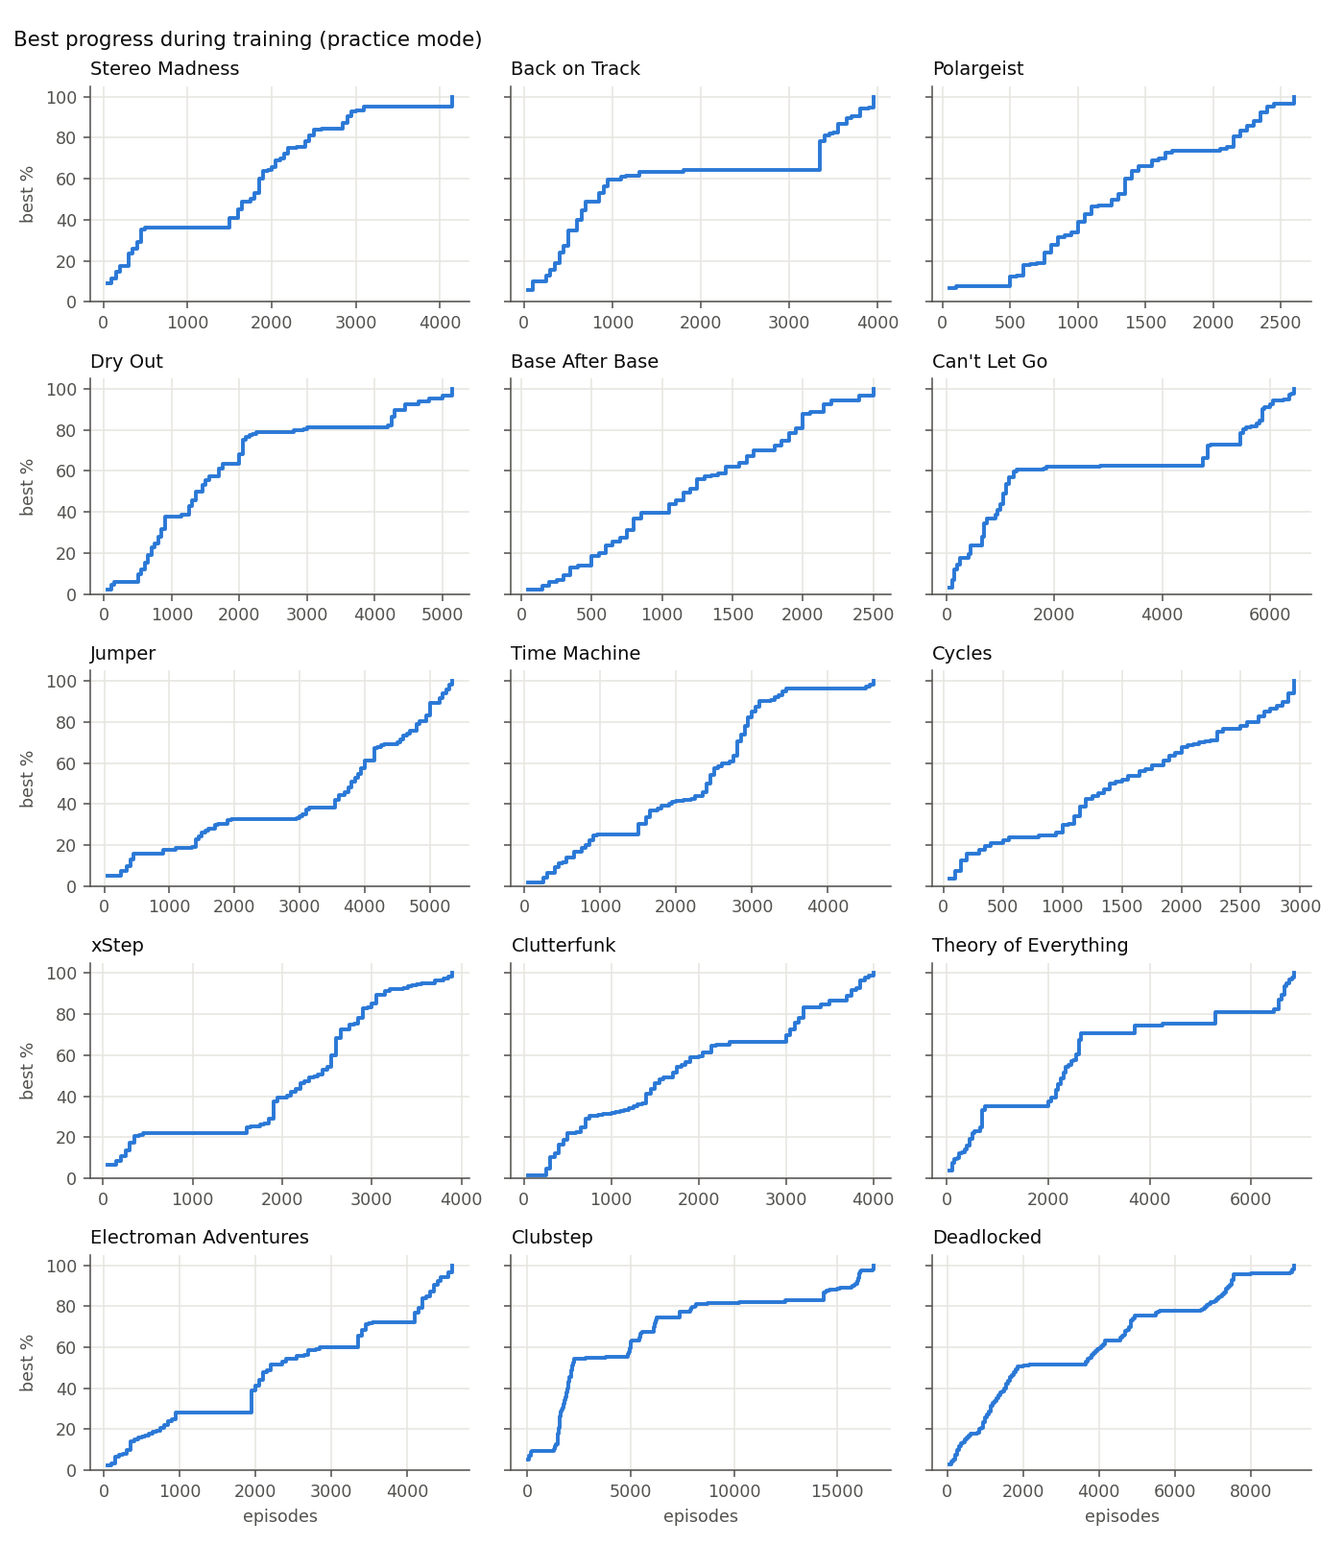
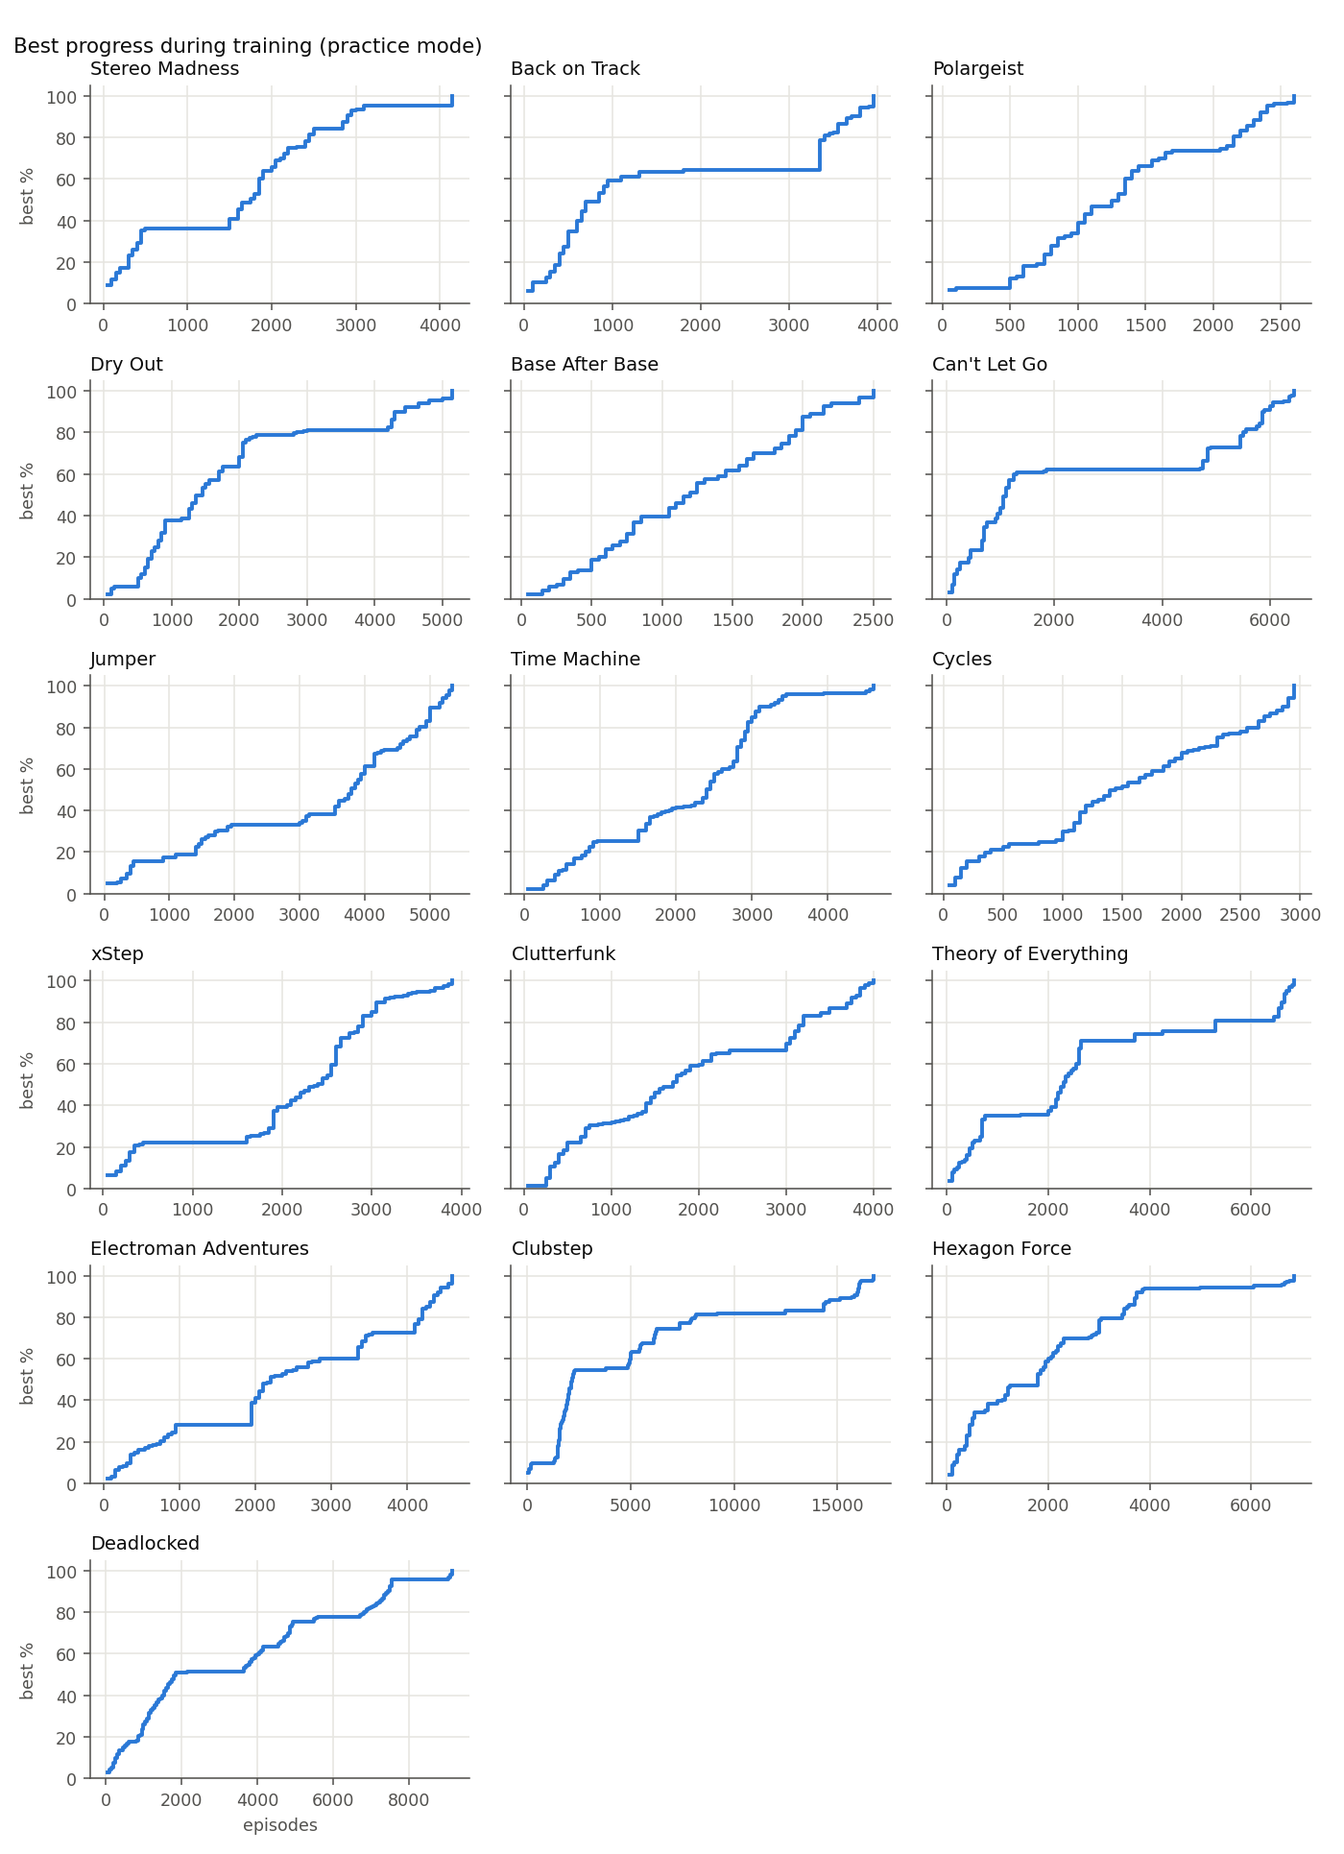
Normal-mode runs, Hexagon Force, search tool, updated report

diff --git a/train_qlearning.py b/train_qlearning.py
@@ -32,6 +32,13 @@ from collections import defaultdict
 from sim.gdsim import GDEnv, PlayerState
 
 
+def clock(seconds):
+    """1h02m03s / 2m03s / 3s"""
+    m, s = divmod(int(seconds), 60)
+    h, m = divmod(m, 60)
+    return f"{h}h{m:02d}m{s:02d}s" if h else f"{m}m{s:02d}s" if m else f"{s}s"
+
+
 def make_key(obs_mode, step, s: PlayerState, held=0):
     """held = the previous action (is the button already pressed?). It changes the future: GD only
     reacts to a NEW press for orbs, the UFO, the ball... Without it, two attempts in the same place,
@@ -108,6 +115,7 @@ def train(level="stereo_lite", mode="practice", obs_mode="state", episodes=20000
     best_greedy = 0.0
     best_acts = []
     last_record_ep = 0           # episode of the last new record
+    last_record_time = time.time()  # when it happened (for the time spent on each step of progress)
     total_sim_steps = 0
     t0 = time.time()
     ep = 0
@@ -187,7 +195,7 @@ def train(level="stereo_lite", mode="practice", obs_mode="state", episodes=20000
                 zone = f"{back // 60}-{2 * back // 60} s before the end (dead end?)"
             if (verbose and margin and best_acts and prev_margin and stuck_level > 0
                     and (zone, max_hold) != prev_margin):
-                print(f"ep. {ep:6d}  no new record for a while: exploring {zone}"
+                print(f"ep. {ep:6d}  {clock(time.time() - t0):>9}  no new record for a while: exploring {zone}"
                       + (f", holds up to {max_hold} steps" if max_hold > 30 else ""))
             prev_margin = (zone, max_hold) if margin else None
             # Keep about `explore_budget` random moves per attempt in the exploration zone, whatever
@@ -276,7 +284,11 @@ def train(level="stereo_lite", mode="practice", obs_mode="state", episodes=20000
                 prog = info["progress"]
                 history.append((ep, prog))
                 new_best = prog > best_greedy
+                gap = ""
                 if new_best:
+                    now = time.time()
+                    gap = f"  (+{(prog - best_greedy) * 100:.2f}% in {clock(now - last_record_time)})"
+                    last_record_time = now
                     best_greedy = prog
                     best_acts = acts
                     last_record_ep = ep
@@ -286,8 +298,8 @@ def train(level="stereo_lite", mode="practice", obs_mode="state", episodes=20000
                         cands = [env.make_checkpoint(i, acts, states) for i in range(30, len(acts) - 1, 30)]
                         frontier = list(dict.fromkeys(c for c in cands if c is not None))
                 if verbose and (ep % print_every == 0 or new_best or info["won"]):
-                    print(f"ep. {ep:6d}  eps={eps:.3f}  agent progress = {100*prog:5.1f}%  "
-                          f"(best {100*best_greedy:5.1f}%)  known states={len(Q)}")
+                    print(f"ep. {ep:6d}  {clock(time.time() - t0):>9}  eps={eps:.3f}  agent progress = {100*prog:5.1f}%  "
+                          f"(best {100*best_greedy:5.1f}%)  known states={len(Q)}{gap}")
                 if info["won"]:
                     dt = time.time() - t0
                     if verbose:
@@ -320,6 +332,9 @@ if __name__ == "__main__":
     p.add_argument("--max-fall", type=float, default=1.5,
                    help="real game only, cube mode: an attempt moving at full vertical speed for more than "
                         "N seconds is stopped and counted as a death (lost in the sky; 0 = off)")
+    p.add_argument("--air-checkpoints", action="store_true",
+                   help="real game: also place checkpoints in the air (long ship/wave sections), when GD "
+                        "restores the vertical speed exactly")
     p.add_argument("--resume", action="store_true", help="start from the saved Q-table")
     p.add_argument("--resume-from", help="start from this Q-table file (e.g. one trained in normal mode)")
     p.add_argument("--seed-run", help="teach the agent a saved run first (e.g. its best run, if the Q-table was lost)")
@@ -342,6 +357,7 @@ if __name__ == "__main__":
         from realenv import RealGDEnv
         args.level = args.level or "real"
         env = RealGDEnv(speed=args.speed, max_fall=args.max_fall)
+        env.air_checkpoints = args.air_checkpoints
 
     tag = f"{args.level}_{args.mode}_{args.obs}"
     qtable_path = f"qtable_{tag}.pkl"

diff --git a/run_batch.py b/run_batch.py
@@ -6,6 +6,7 @@ Open ANY level in GD first (the mod only listens while a level is open), then fo
     python run_batch.py --levels 1-9 --mode normal
     python run_batch.py --levels 1,3,5 --no-reverse --max-minutes 60 --variant no-reverse
     python run_batch.py --levels 1-9 --mode normal --skip-done      # continue an interrupted batch
+    python run_batch.py --levels no-demons --mode normal            # every official level but the demons
 
 For each level it writes, in results/runs/:
     <level>__<mode>__<variant>.log         the training log (first line describes the run)
@@ -30,6 +31,7 @@ LEVELS = {
     16: "hexagon_force", 17: "blast_processing", 18: "theory_of_everything_2",
     19: "geometrical_dominator", 20: "deadlocked", 21: "fingerdash", 22: "dash",
 }
+DEMONS = {14, 18, 20}           # Clubstep, Theory of Everything 2, Deadlocked
 RUNS_DIR = os.path.join("results", "runs")
 SUMMARY = os.path.join(RUNS_DIR, "summary.csv")
 FIELDS = ["level_id", "level", "mode", "variant", "won", "best_progress", "episodes",
@@ -56,6 +58,8 @@ class Tee:
 
 
 def parse_levels(text):
+    if text in ("all", "no-demons"):
+        return [i for i in LEVELS if text == "all" or i not in DEMONS]
     ids = []
     for part in text.split(","):
         if "-" in part:
@@ -78,7 +82,8 @@ def done_runs():
 
 def main():
     p = argparse.ArgumentParser()
-    p.add_argument("--levels", default="1-9", help="e.g. 1-9 or 1,3,5 (1 = Stereo Madness)")
+    p.add_argument("--levels", default="1-9",
+                   help="e.g. 1-9 or 1,3,5 (1 = Stereo Madness), 'all', or 'no-demons' (all but 14, 18, 20)")
     p.add_argument("--mode", choices=["practice", "normal"], default="practice")
     p.add_argument("--variant", default=None, help="name for this configuration (default: 'default' "
                                                   "or 'no-reverse' / 'no-hold')")
@@ -86,15 +91,20 @@ def main():
     p.add_argument("--max-minutes", type=float, default=120, help="time limit per level")
     p.add_argument("--speed", type=int, default=20)
     p.add_argument("--eps-start", type=float, default=0.3)
+    p.add_argument("--obs", choices=["state", "fine"], default="state")
+    p.add_argument("--max-level-seconds", type=float, default=200,
+                   help="an attempt longer than this is stopped (official levels last under 2 min)")
     p.add_argument("--no-reverse", action="store_true")
     p.add_argument("--no-hold", action="store_true")
     p.add_argument("--skip-done", action="store_true", help="skip runs already in summary.csv")
     args = p.parse_args()
 
     variant = args.variant or ("no-reverse" if args.no_reverse else "no-hold" if args.no_hold else "default")
+    if args.obs != "state" and not args.variant:
+        variant += f"-{args.obs}"
     os.makedirs(RUNS_DIR, exist_ok=True)
     already = done_runs() if args.skip_done else set()
-    env = RealGDEnv(speed=args.speed)
+    env = RealGDEnv(speed=args.speed, max_seconds=args.max_level_seconds)
 
     for level_id in parse_levels(args.levels):
         name = LEVELS[level_id]
@@ -105,7 +115,7 @@ def main():
         tee = Tee(base + ".log")
         sys.stdout = tee
         print(f"RUN level={name} id={level_id} mode={args.mode} variant={variant} "
-              f"reverse={not args.no_reverse} hold={not args.no_hold} max_minutes={args.max_minutes} "
+              f"reverse={not args.no_reverse} hold={not args.no_hold} obs={args.obs} max_minutes={args.max_minutes} "
               f"started={datetime.datetime.now().isoformat(timespec='seconds')}")
         res = None
         try:
@@ -117,7 +127,7 @@ def main():
                     pickle.dump(dict(Q), f)
                 os.replace(qtable + ".tmp", qtable)
 
-            res = train(name, args.mode, "state", args.episodes, env=env, verbose=True,
+            res = train(name, args.mode, args.obs, args.episodes, env=env, verbose=True,
                         eps_start=args.eps_start, print_every=200, save_every=200, save_fn=save,
                         focus_margin=30, explore_hold=not args.no_hold,
                         reverse_replay=not args.no_reverse, max_seconds=args.max_minutes * 60)

diff --git a/realenv.py b/realenv.py
@@ -62,6 +62,9 @@ class Checkpoint:
     x: float = 0.0
     y: float = 0.0
     mode: int = 0
+    air: bool = False   # placed in the air (see RealGDEnv.air_checkpoints)
+    vy: float = 0.0     # vertical speed right after the respawn, as seen by the agent (blocks/s)
+    yv: float = 0.0     # the same, as GD stores it: checked after the respawn
 
 
 class RealGDEnv:
@@ -73,6 +76,10 @@ class RealGDEnv:
         (Clutterfunk). A height limit does not work: legit runs climb 15+ blocks with orbs
         (Clubstep) or fall a long way. Other modes (ship, UFO...): no limit. 0 = off."""
         self.max_fall = max_fall
+        # Checkpoints in the air (ship, wave, UFO...): off by default. Long flying sections have no
+        # place on the ground, so attempts restart far back. When on, a checkpoint in the air is only
+        # used if GD restores its vertical speed exactly (checked at every respawn).
+        self.air_checkpoints = False
         self._full_speed_steps = 0
         try:
             self.sock = socket.create_connection((host, port), timeout=5)
@@ -136,7 +143,8 @@ class RealGDEnv:
         y = (raw.y - self._origin[1]) / UNITS_PER_BLOCK
         # Vertical speed in blocks/s, measured from the movement (same meaning as in the simulator)
         vy = 0.0 if prev is None else (y - prev.y) / STEP_SECONDS
-        return PlayerState(x, y, vy, raw.grounded, raw.dead, self._real_win(raw), self.steps * 4, raw.mode)
+        return PlayerState(x, y, vy, raw.grounded, raw.dead, self._real_win(raw), self.steps * 4, raw.mode,
+                           raw.y_velocity)
 
     @staticmethod
     def _real_win(raw: RawState) -> bool:
@@ -213,9 +221,11 @@ class RealGDEnv:
         Returns None if no valid position is found.
         """
         for k in range(min(step, len(actions) - 1), max(0, step - CHECKPOINT_SEARCH), -1):
-            if states[k].grounded and actions[k] == 0:
+            if actions[k] == 0 and (states[k].grounded or self.air_checkpoints):
+                air = not states[k].grounded
                 return Checkpoint(step=k + 1, prefix=tuple(actions[:k]), x=states[k + 1].x, y=states[k + 1].y,
-                                  mode=states[k + 1].mode)
+                                  mode=states[k + 1].mode, air=air, vy=states[k + 1].vy if air else 0.0,
+                                  yv=states[k + 1].yv if air else 0.0)
         return None
 
     # --- Gym-like API -------------------------------------------------------------------
@@ -238,7 +248,8 @@ class RealGDEnv:
                 self._restart()                          # respawn at the checkpoint
                 x = (self.raw.x - self._origin[0]) / UNITS_PER_BLOCK
                 y = (self.raw.y - self._origin[1]) / UNITS_PER_BLOCK
-                if abs(x - cp.x) < 1e-3 and abs(y - cp.y) < 1e-3 and self.raw.mode == cp.mode:
+                same_speed = not cp.air or abs(self.raw.y_velocity - cp.yv) < 1e-3
+                if abs(x - cp.x) < 1e-3 and abs(y - cp.y) < 1e-3 and self.raw.mode == cp.mode and same_speed:
                     break
                 # Not where we expected: the checkpoint was lost (or the game is not deterministic).
                 # Place it again; if it keeps failing, stop rather than learn from wrong data.
@@ -249,6 +260,10 @@ class RealGDEnv:
                                    "checkpoints are not reproducible on this level")
             self.steps = cp.step
         self.state = self._to_state(self.raw, None)
+        if start_state is not None and start_state.air:
+            # The agent measures its speed from the previous step, which a respawn does not have:
+            # give it the speed of the original run, so its situation looks exactly the same
+            self.state = replace(self.state, vy=start_state.vy)
         return self.obs(), {}
 
     def step(self, action):

diff --git a/sim/gdsim.py b/sim/gdsim.py
@@ -40,6 +40,7 @@ class PlayerState:
     won: bool = False
     tick: int = 0
     mode: int = 0          # game mode (real game only: 0 cube, 1 ship, 3 UFO...)
+    yv: float = 0.0        # real game only: GD's own vertical speed (to check checkpoints in the air)
 
 
 class Level:

diff --git a/docs/RESULTS.md b/docs/RESULTS.md
@@ -43,7 +43,9 @@ Généré par `python make_report.py` à partir des logs de `results/` (données
 
 | Level | Mode | Variant | Result | Episodes | Steps played | Time | Notes |
 |---|---|---|---|---|---|---|---|
+| Stereo Madness | normal | default | beaten | 1,700 | 4,725,763 | 26.4 min |  |
 | Stereo Madness | practice | default | beaten | 4,150 | 749,552 | 4.8 min |  |
+| Back on Track | normal | default | beaten | 2,750 | 6,873,904 | 36.9 min |  |
 | Back on Track | practice | default | beaten | 3,950 | 1,062,140 | 6.0 min |  |
 | Polargeist | practice | default | beaten | 2,600 | 457,379 | 2.8 min |  |
 | Dry Out | practice | default | beaten | 5,150 | 848,323 | 5.5 min |  |
@@ -57,10 +59,12 @@ Généré par `python make_report.py` à partir des logs de `results/` (données
 | Theory of Everything | practice | default | beaten | 6,850 | 1,112,616 | 7.5 min | 2 checkpoint(s) set aside |
 | Electroman Adventures | practice | default | beaten | 4,600 | 1,150,451 | 6.5 min |  |
 | Clubstep | practice | default | beaten | 16,750 | 2,830,820 | 22.7 min | finer state (--obs fine) |
+| Hexagon Force | practice | default | beaten | 6,850 | 1,391,029 | 10.1 min |  |
 | Deadlocked | practice | default | beaten | 9,150 | 2,065,893 | 13.5 min | finer state (--obs fine) |
 
 ![minutes_per_level.png](figures/minutes_per_level.png)
 ![curves_practice.png](figures/curves_practice.png)
+![curves_normal.png](figures/curves_normal.png)
 
 ### Difficulty according to the AI / Difficulté selon l'IA
 
@@ -71,20 +75,21 @@ Levels ranked by the number of attempts (practice mode) the agent needed to beat
 | 1 | Clubstep | 14 | 16,750 | stuck 1,300 attempts at 83% |
 | 2 | Deadlocked | 15 | 9,150 | stuck 1,500 attempts at 52% |
 | 3 | Theory of Everything | 12 | 6,850 | stuck 1,150 attempts at 81% |
-| 4 | Can't Let Go | 6 | 6,450 | stuck 1,850 attempts at 62% |
-| 5 | Jumper | 7 | 5,350 | stuck 1,000 attempts at 33% |
-| 6 | Dry Out | 4 | 5,150 | stuck 700 attempts at 81% |
-| 7 | Time Machine | 8 | 4,600 | stuck 550 attempts at 25% |
-| 8 | Electroman Adventures | 10 | 4,600 | stuck 1,000 attempts at 28% |
-| 9 | Stereo Madness | 1 | 4,150 | stuck 1,050 attempts at 95% |
-| 10 | Clutterfunk | 11 | 4,000 | stuck 650 attempts at 66% |
-| 11 | Back on Track | 2 | 3,950 | stuck 1,550 attempts at 64% |
-| 12 | xStep | 10 | 3,900 | stuck 650 attempts at 22% |
-| 13 | Cycles | 9 | 2,950 | stuck 200 attempts at 24% |
-| 14 | Polargeist | 3 | 2,600 | stuck 250 attempts at 74% |
-| 15 | Base After Base | 5 | 2,500 | stuck 200 attempts at 40% |
+| 4 | Hexagon Force | 12 | 6,850 | stuck 1,050 attempts at 94% |
+| 5 | Can't Let Go | 6 | 6,450 | stuck 1,850 attempts at 62% |
+| 6 | Jumper | 7 | 5,350 | stuck 1,000 attempts at 33% |
+| 7 | Dry Out | 4 | 5,150 | stuck 700 attempts at 81% |
+| 8 | Time Machine | 8 | 4,600 | stuck 550 attempts at 25% |
+| 9 | Electroman Adventures | 10 | 4,600 | stuck 1,000 attempts at 28% |
+| 10 | Stereo Madness | 1 | 4,150 | stuck 1,050 attempts at 95% |
+| 11 | Clutterfunk | 11 | 4,000 | stuck 650 attempts at 66% |
+| 12 | Back on Track | 2 | 3,950 | stuck 1,550 attempts at 64% |
+| 13 | xStep | 10 | 3,900 | stuck 650 attempts at 22% |
+| 14 | Cycles | 9 | 2,950 | stuck 200 attempts at 24% |
+| 15 | Polargeist | 3 | 2,600 | stuck 250 attempts at 74% |
+| 16 | Base After Base | 5 | 2,500 | stuck 200 attempts at 40% |
 
-Agreement with the official difficulty (Spearman rank correlation, 1 = same order, 0 = unrelated): **0.52** over 15 levels.
+Agreement with the official difficulty (Spearman rank correlation, 1 = same order, 0 = unrelated): **0.60** over 16 levels.
 
 ![ai_vs_official_difficulty.png](figures/ai_vs_official_difficulty.png)
 

diff --git a/README.fr.md b/README.fr.md
@@ -8,8 +8,11 @@ tout le reste, elle l'apprend en mourant.
 
 ## Résultats
 
-**15 des 22 niveaux officiels finis**, dont les deux démons tentés pour l'instant, **Clubstep** et **Deadlocked**.
+**16 des 22 niveaux officiels finis**, dont les deux démons tentés pour l'instant, **Clubstep** et **Deadlocked**.
 La plupart des niveaux demandent 3 à 7 minutes d'entraînement ; les deux démons en ont demandé 13,5 (Deadlocked) et 23 (Clubstep).
+Sans checkpoints (chaque essai part du début), l'IA a besoin de moins d'essais mais de 5 à 6 fois plus de temps :
+26 minutes pour Stereo Madness et 37 pour Back on Track, car chaque essai rejoue tout le niveau.
+Sur Grief, un extreme demon, elle a atteint 38 % avec l'aide d'une recherche par retour arrière (`tools/search_stuck.py`).
 
 ![Un niveau difficile pour les humains l'est-il aussi pour l'IA ?](docs/figures/ai_vs_official_difficulty.png)
 
@@ -99,6 +102,7 @@ Le log indique comment l'exploration s'élargit quand aucun record ne tombe. Si 
 python watch_best.py solution_qlearning_<niveau>_practice_state.txt   # où et comment meurt-elle ?
 python -m tools.diag_stuck <niveau>                                    # ce qui se passe autour de la mort
 python -m tools.diag_greedy <niveau>                                   # suit-elle encore son meilleur essai ?
+python -m tools.search_stuck <niveau>                                  # recherche par retour arrière, puis --resume --seed-run
 ```
 
 ## Premières expériences : le simulateur
@@ -125,6 +129,6 @@ Ces chiffres datent d'avant le reverse replay, qui a rendu l'IA plusieurs fois p
 
 ## Suite
 
-- Les 7 niveaux officiels restants.
+- Les 6 niveaux officiels restants.
 - Relancer proprement tous les niveaux avec la version actuelle, plusieurs graines chacun, pour un classement de difficulté équitable.
 - Phase 2 : une IA qui voit le niveau et doit se débrouiller sur des niveaux qu'elle n'a jamais joués.

diff --git a/README.md b/README.md
@@ -8,8 +8,11 @@ everything else, it learns by dying.
 
 ## Results
 
-**15 of the 22 official levels beaten**, including the two demons tried so far, **Clubstep** and **Deadlocked**.
+**16 of the 22 official levels beaten**, including the two demons tried so far, **Clubstep** and **Deadlocked**.
 Most levels take 3 to 7 minutes of training; the two demons took 13.5 (Deadlocked) and 23 minutes (Clubstep).
+Without checkpoints (every attempt from the start), the agent needs fewer attempts but 5 to 6 times more time:
+26 minutes for Stereo Madness and 37 for Back on Track, because each attempt replays the whole level.
+On Grief, an extreme demon, it reached 38% with the help of a backtracking search (`tools/search_stuck.py`).
 
 ![Is a level hard for the AI when it is hard for humans?](docs/figures/ai_vs_official_difficulty.png)
 
@@ -98,6 +101,7 @@ The log shows how exploration widens when no record is beaten. If it stays stuck
 python watch_best.py solution_qlearning_<level>_practice_state.txt   # where and how does it die?
 python -m tools.diag_stuck <level>                                    # what happens around the death
 python -m tools.diag_greedy <level>                                   # does the agent still follow its best run?
+python -m tools.search_stuck <level>                                  # backtracking search past the wall, then --resume --seed-run
 ```
 
 ## First experiments: the simulator
@@ -124,6 +128,6 @@ These numbers predate reverse replay, which made the agent several times faster.
 
 ## Next steps
 
-- The 7 remaining official levels.
+- The 6 remaining official levels.
 - Clean reruns of every level with the current version, several seeds each, for a fair difficulty ranking.
 - Phase 2: an agent that sees the level and has to generalize to levels it has never played.
